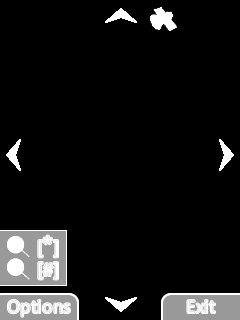
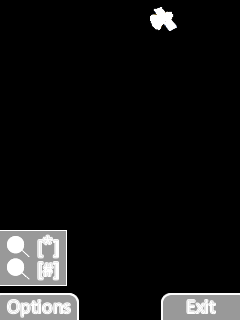
pan arrows are now canvas.polygon'ed on instead of being part of the mapui1.jpg (this way, the yellow+blue arrows will go over the pan arrow, but under the overlay)

diff --git a/MaraudersMapMobile/src/python/mmm_mapui.py b/MaraudersMapMobile/src/python/mmm_mapui.py
@@ -45,6 +45,29 @@ def updatePosition(event):
     userGpsX = positionInfo['longitude']
     app.redraw(None)
 
+def addOffset((x, y), (dx, dy) ):
+    return (x + dx, y + dy)
+
+def getPanArrowVertices():
+    vertices = [(16, 0), (32, 14), (16, 8), (0, 14)]
+    up = []
+    down = []
+    left = []
+    right = []
+    for i in range(0, 4):
+        up.append( addOffset(vertices[i], (104, 5) ) )
+        down.append( addOffset(rotate(vertices[i], pi), (136, 313) )) 
+        left.append( addOffset(rotate(vertices[i], (-pi/2)), (5, 175)))
+        right.append( addOffset(rotate(vertices[i], (pi/2)), (233, 144)))
+    return up, down, left, right
+
+def getArrow(color):
+    arrow = TargetArrow(30, 30, 0)
+    arrow.isCircleVisible = False
+    arrow.setScale(0.5)
+    arrow.color = color
+    return arrow
+    
 class MapUI:
     def __init__(self):
         def zoom_in():
@@ -103,14 +126,9 @@ class MapUI:
             self.northIcon = Image.open("C:\\Data\\Images\\northIcon.jpg")
             self.northIcon_mask = Image.new(self.northIcon.size, mode = 'L')
             self.northIcon_mask.blit(Image.open("C:\\Data\\Images\\northIcon_mask.jpg"))
-            self.targetArrow = TargetArrow(30, 30, 0)
-            self.targetArrow.isCircleVisible = False
-            self.targetArrow.setScale(0.5)
-            self.targetArrow.color = mmm_color.GOLD
-            self.userArrow = TargetArrow(30, 30, 0)
-            self.userArrow.isCircleVisible = False
-            self.userArrow.setScale(0.5)
-            self.userArrow.color = mmm_color.BLUE
+            self.targetArrow = getArrow(mmm_color.GOLD)
+            self.userArrow = getArrow(mmm_color.BLUE)
+            self.upVertices, self.downVertices, self.leftVertices, self.rightVertices = getPanArrowVertices()
             
             print "Loading map coords"
             f = file(u"C:\\Data\\Others\\gates_coords.txt", "r")
@@ -118,8 +136,7 @@ class MapUI:
             for line in f:
                 str += line.strip()
             f.close()
-            mapCoords = eval(str)		
-            self.coords = mapCoords
+            self.coords = eval(str)		
             
             self.lock = Ao_lock()
             print "Map coords: ", self.coords
@@ -252,12 +269,12 @@ class MapUI:
             mask = targetLabel_mask,
             target = (targetX - targLabelW/2, targetY + targH/2))
         
-        # if target is offscreen, draw arrow indicating direction of target
-        #if (not(targetX >= 0 and targetX < w and targetY >= 0 and targetY < h)):
-            #self.targetArrow.theta = targetDirection
-            #self.targetArrow.draw(app.body)
-            #(targetLabelW, targetLabelH) = targetLabel.size
-            #app.body.blit(targetLabel, mask = targetLabel_mask, target = (30 - targetLabelW/2, 30 + self.targetArrow.radius))
+        # draw pan arrows
+        app.body.polygon(self.upVertices, outline = mmm_color.BLACK, fill = mmm_color.WHITE, width = 2) 
+        app.body.polygon(self.downVertices, outline = mmm_color.BLACK, fill = mmm_color.WHITE, width = 2)
+        app.body.polygon(self.leftVertices, outline = mmm_color.BLACK, fill = mmm_color.WHITE, width = 2) 
+        app.body.polygon(self.rightVertices, outline = mmm_color.BLACK, fill = mmm_color.WHITE, width = 2) 
+        #setCoords(vertices, (106, 9)), 
             
         # if both user and target are offscreen, draw arrows indicating position on map     
         if (not(userX >= -iconW/2 and userX < w + iconW/2 and userY >= -2*iconH/3 and userY < h + iconH/3)
